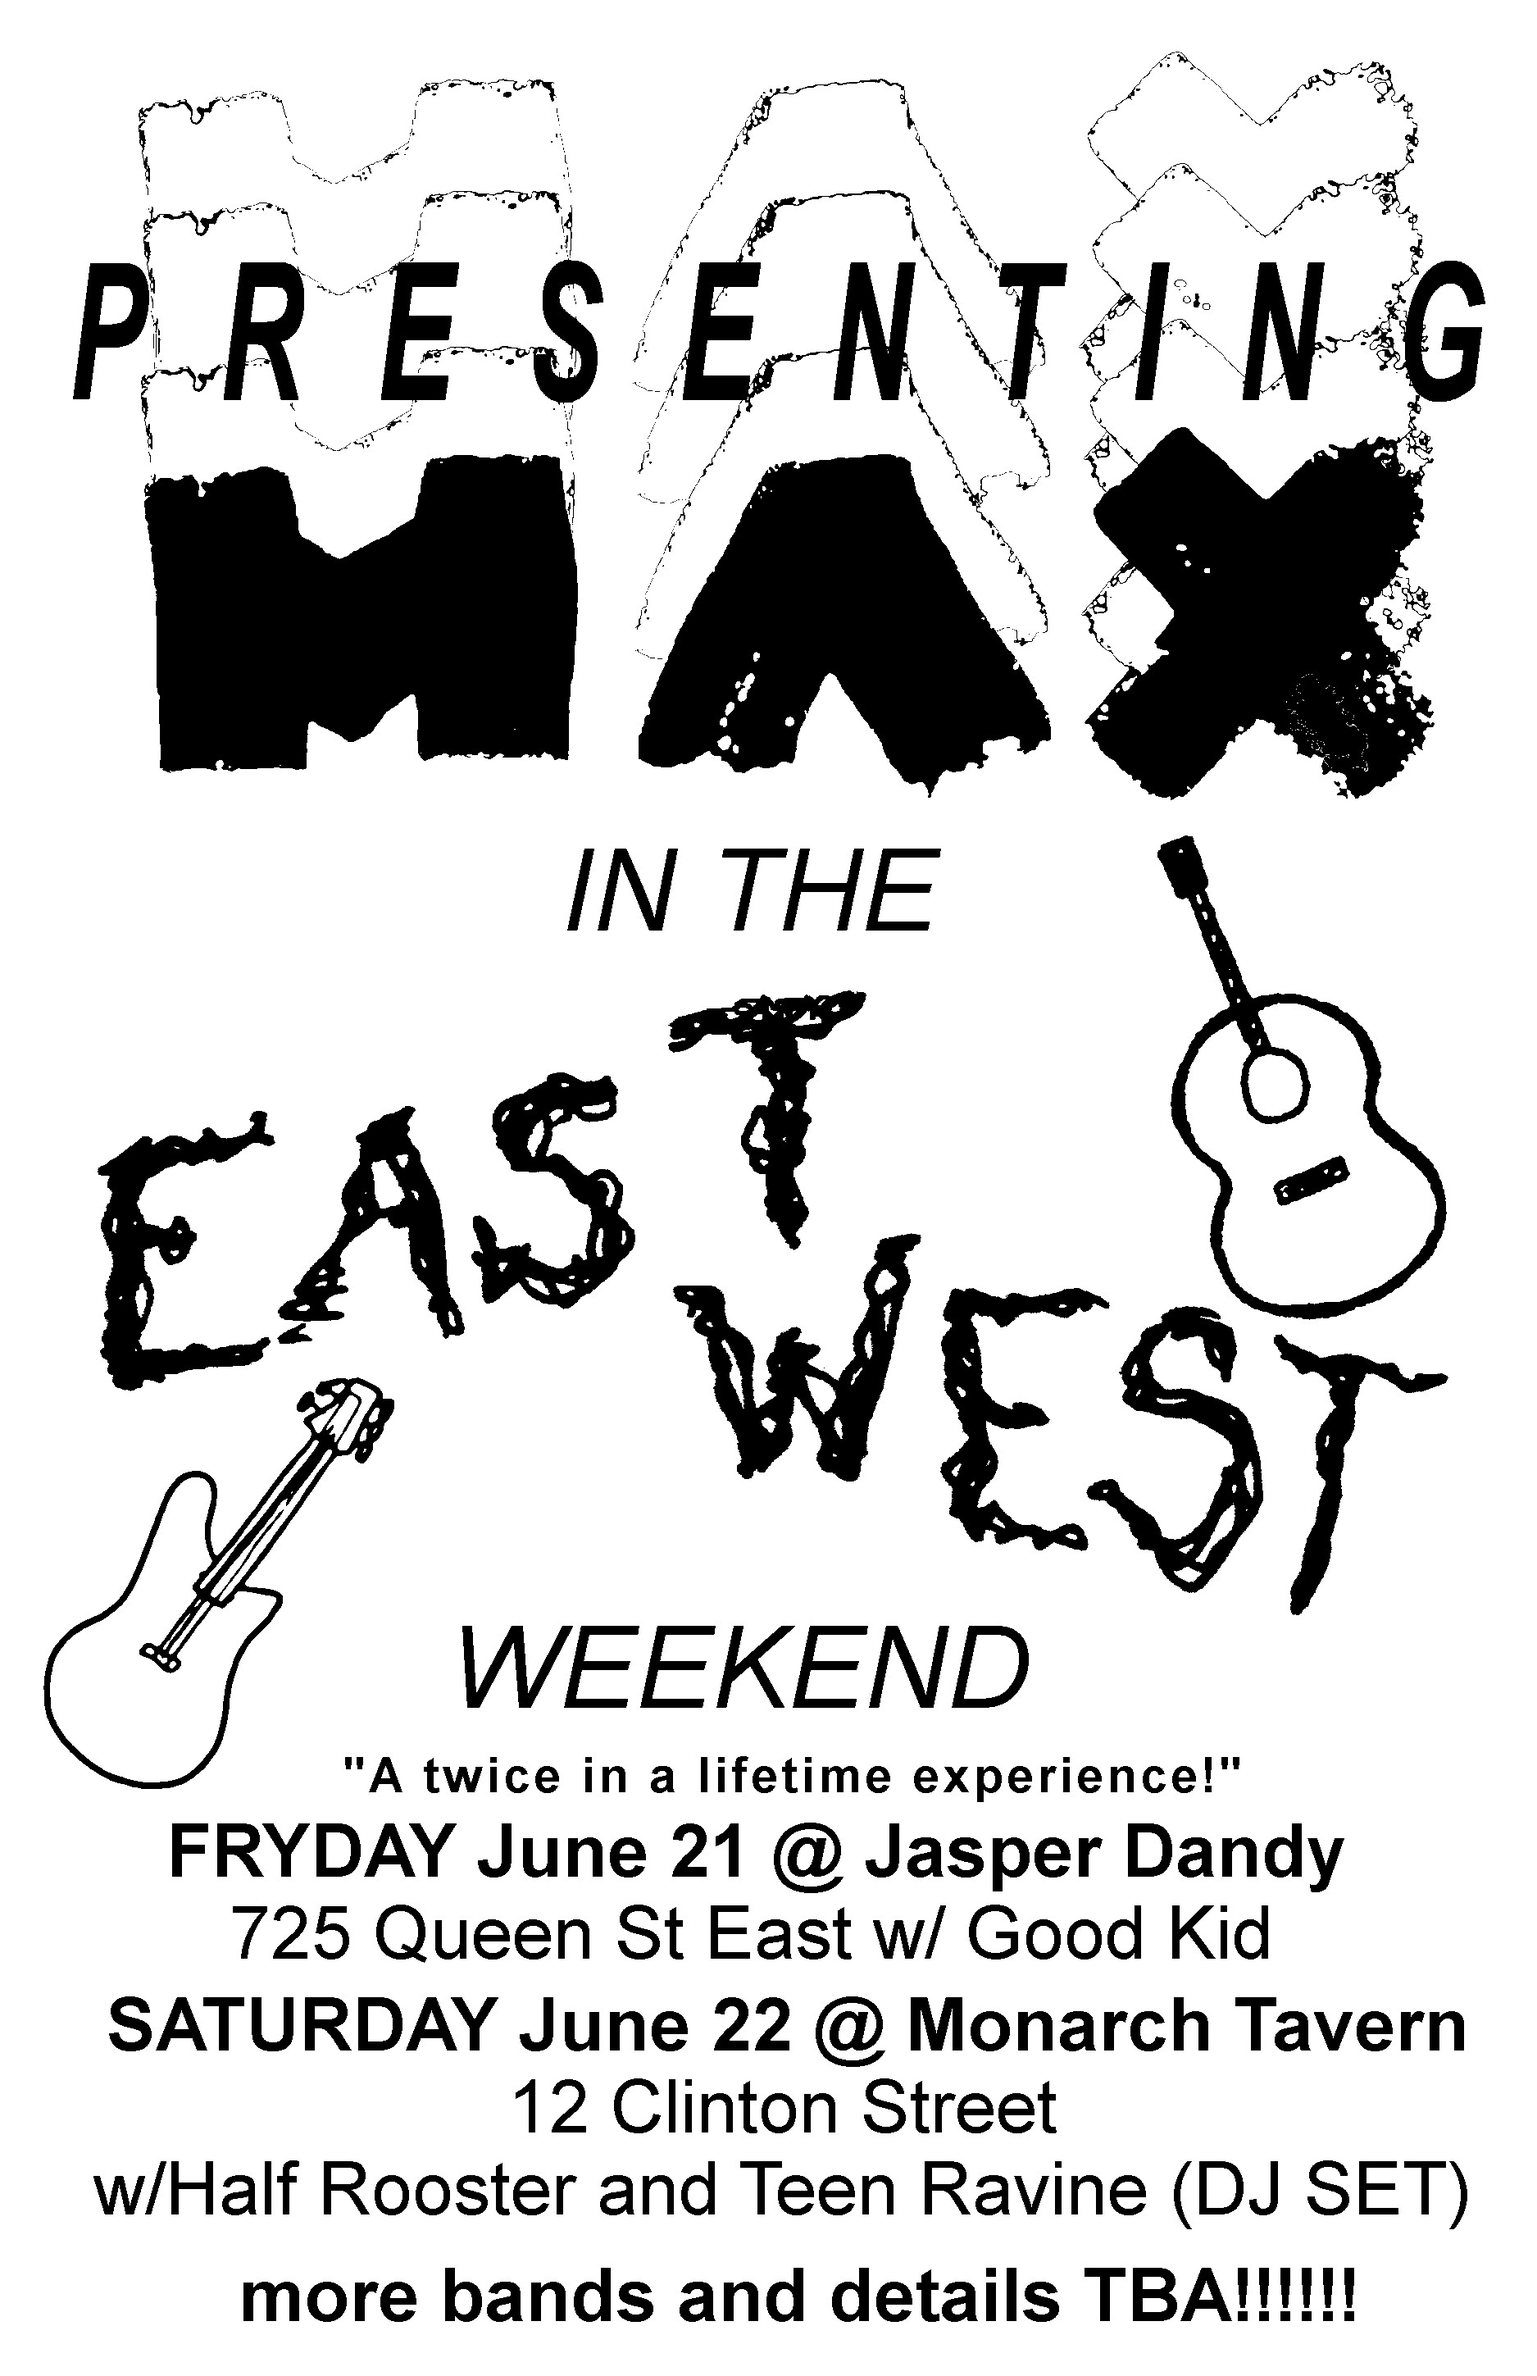
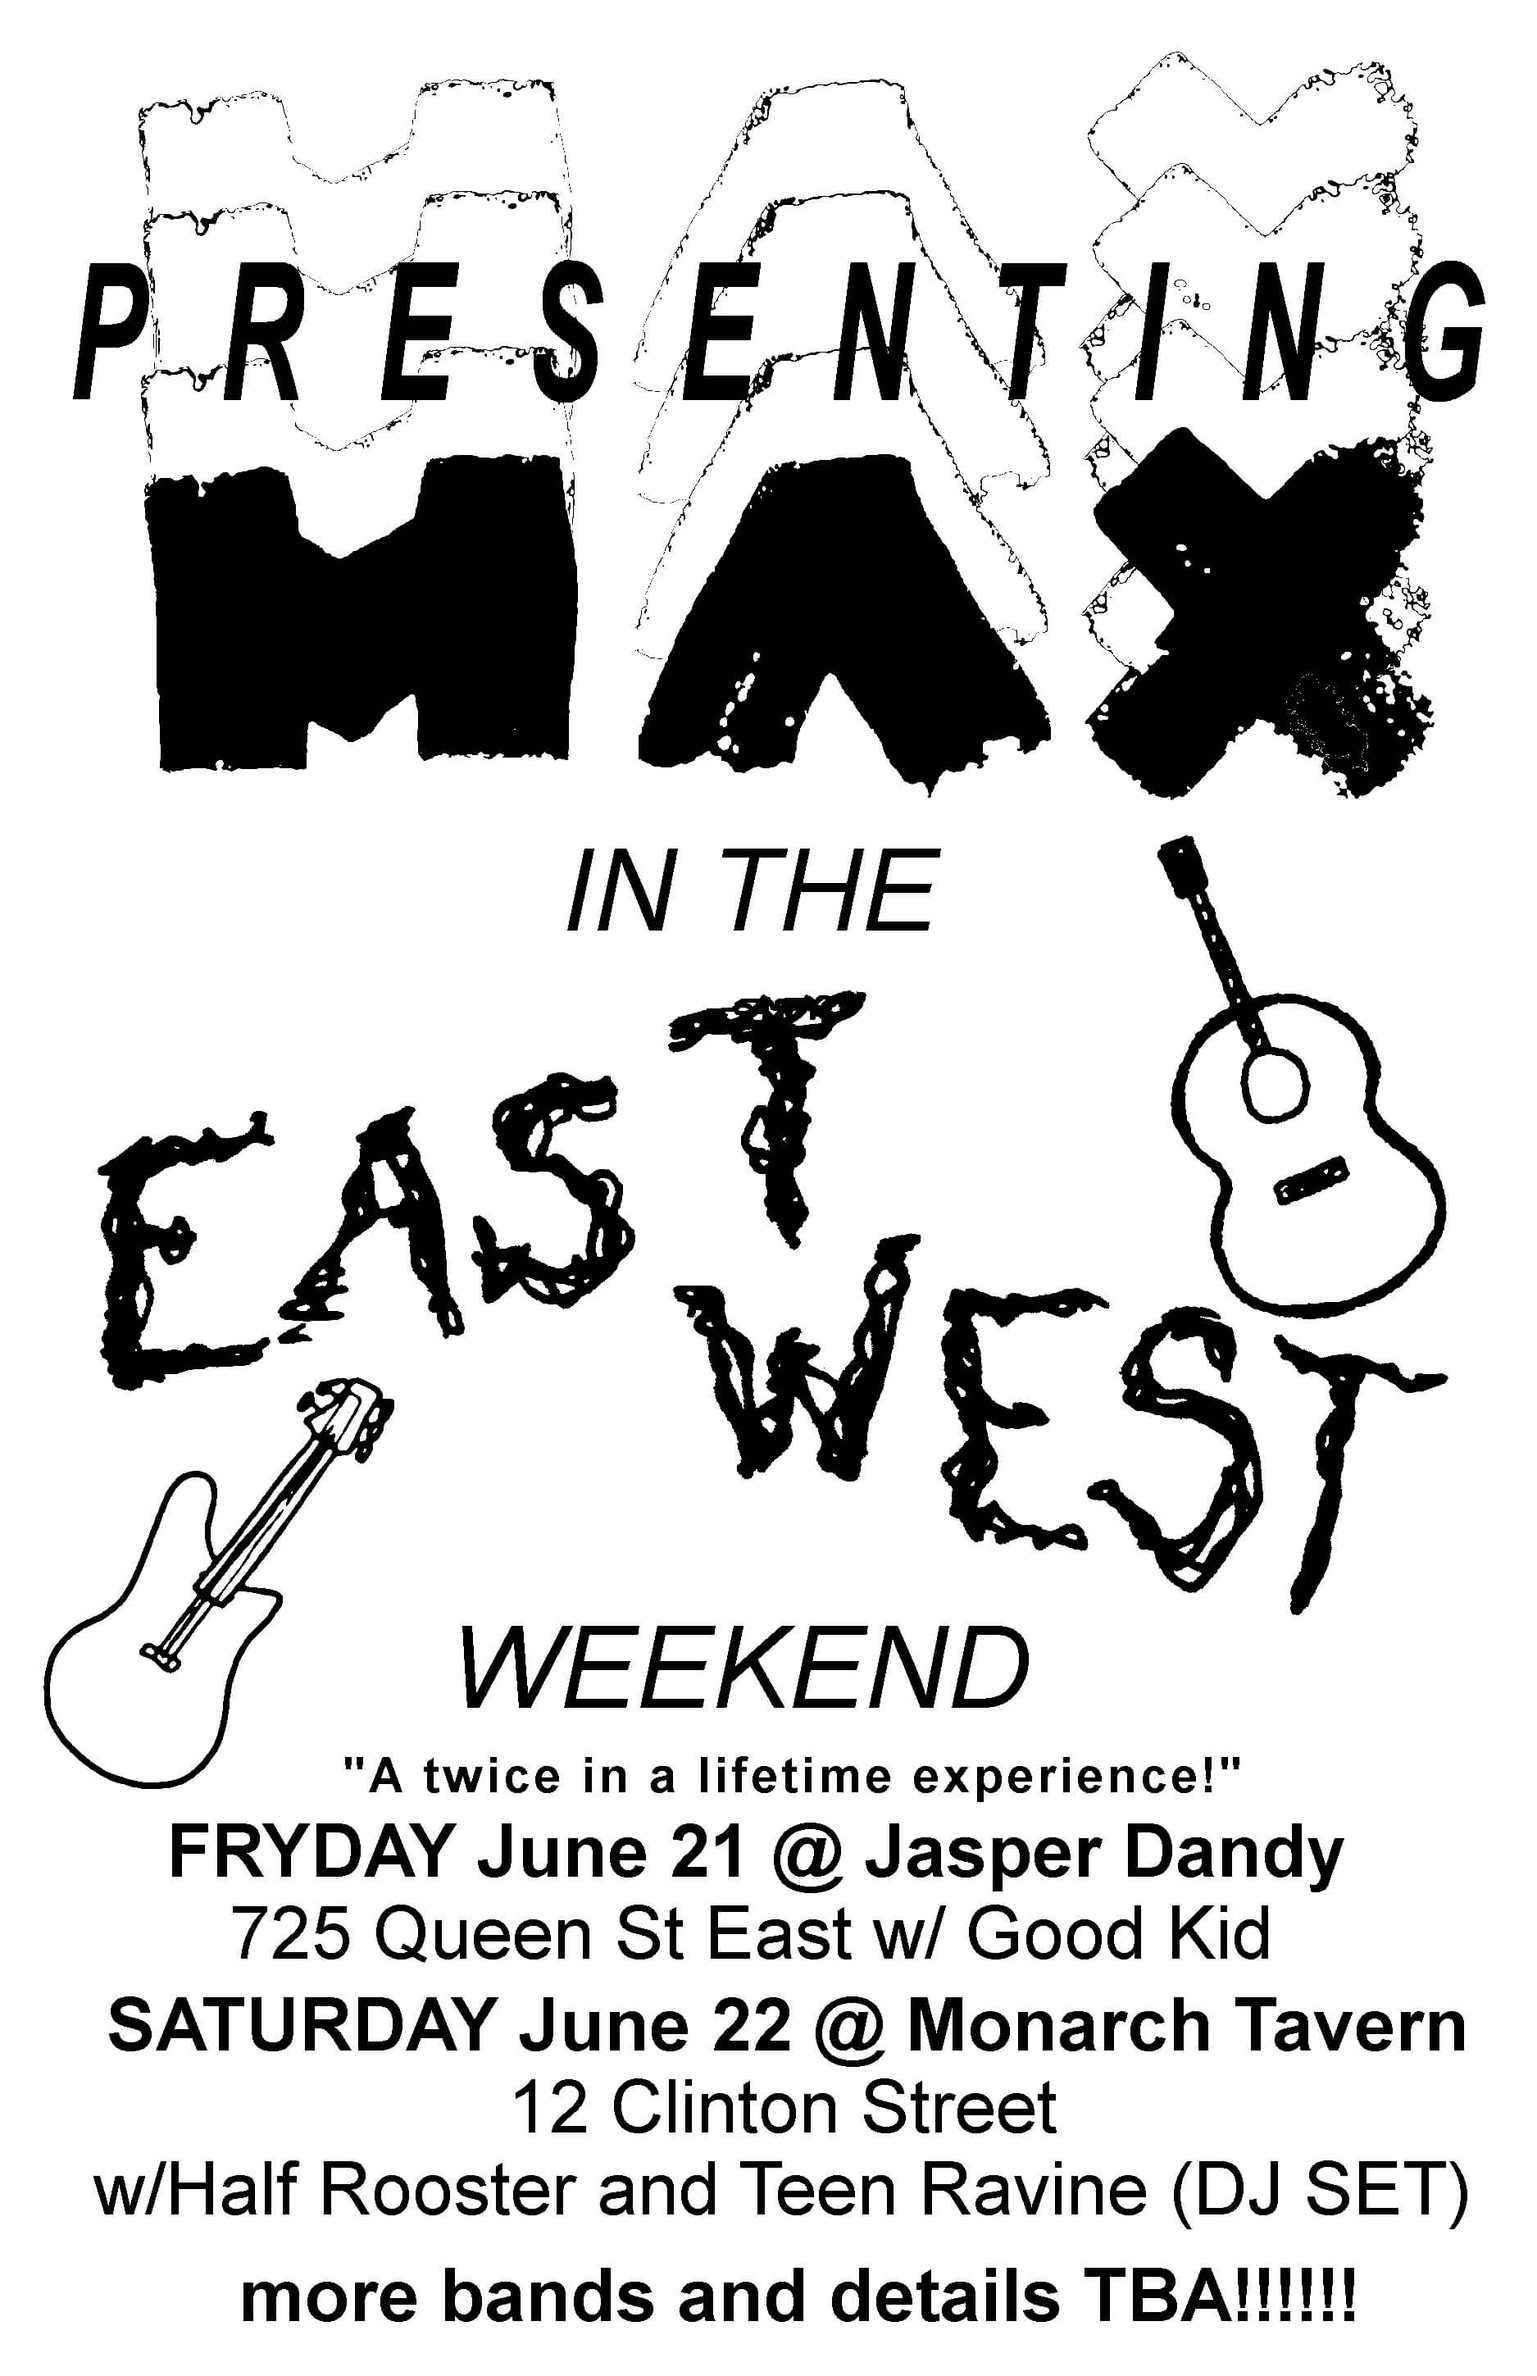
Compresses poster image file size, and reduces width of song embed

diff --git a/styles.css b/styles.css
@@ -15,7 +15,7 @@ body {
   margin-bottom: 20px;
 }
 .song {
-  max-width: 540px;
+  max-width: 480px;
   margin: 0 auto;
 }
 .banner {
